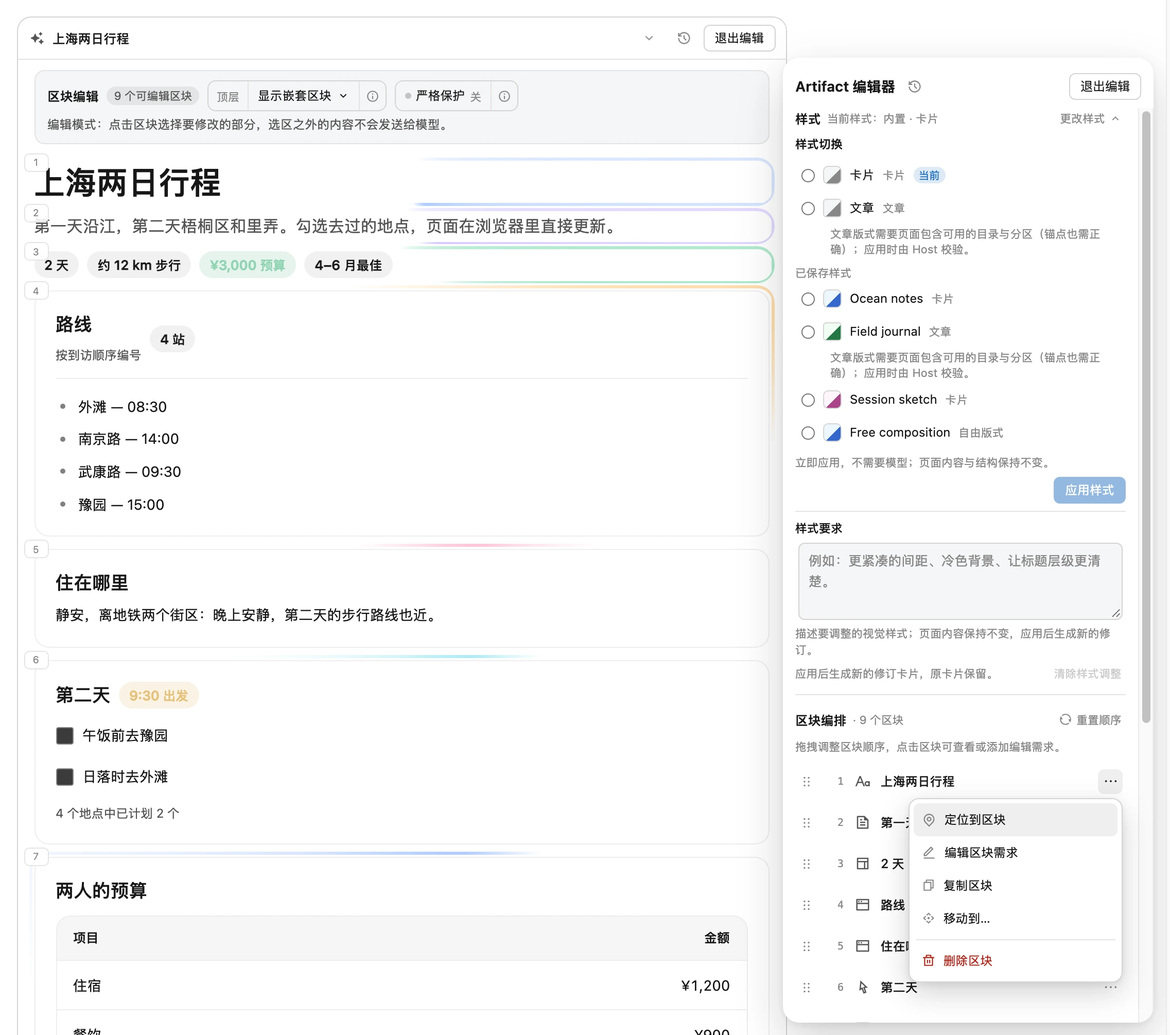
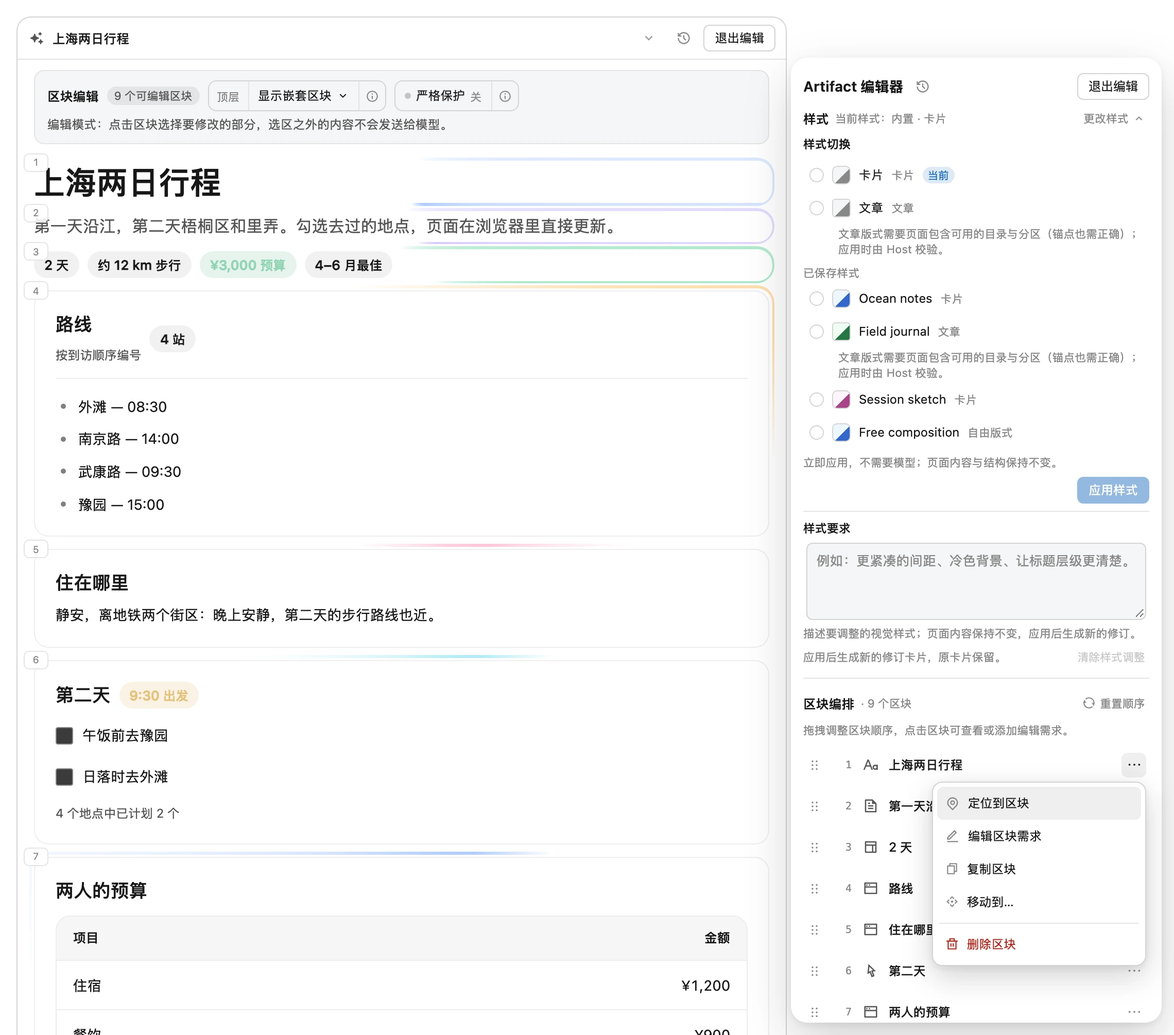
style(editor): custom-draw the style-switch radios
Replace the native OS radio appearance in the B2 style picker with a
custom-drawn 14px ring/dot indicator (native input preserved for keyboard and
assistive technology), including hover/checked/focus-visible states and a
forced-colors checked/focus fallback. Regenerate the editor/overview captures
and sync current facts (client CSS 220.9 kB, pack 6,047,986 / 12,890,199).

diff --git a/src/client/artifact-edit/artifact-edit.css b/src/client/artifact-edit/artifact-edit.css
@@ -992,8 +992,33 @@
 
 .dsh-iui-edit-style-radio {
   flex: none;
+  box-sizing: border-box;
+  inline-size: 14px;
+  block-size: 14px;
   margin: 0;
-  accent-color: var(--dsw-alias-state-business-primary, var(--dsw-alias-brand-primary));
+  border: 1.5px solid var(--dsw-alias-border-l2);
+  border-radius: 50%;
+  /* Custom-drawn radio: keep the native input for keyboard/AT semantics. */
+  appearance: none;
+  -webkit-appearance: none;
+  background: var(--dsw-alias-bg-base, #fff);
+  cursor: pointer;
+  transition: border-color 120ms ease, background-color 120ms ease;
+}
+
+.dsh-iui-edit-style-radio:hover {
+  border-color: var(--dsw-alias-label-tertiary);
+}
+
+.dsh-iui-edit-style-radio:checked {
+  border-color: var(--dsw-alias-state-business-primary, var(--dsw-alias-brand-primary));
+  background: var(--dsw-alias-state-business-primary, var(--dsw-alias-brand-primary));
+  box-shadow: inset 0 0 0 3px var(--dsw-alias-bg-base, #fff);
+}
+
+.dsh-iui-edit-style-radio:focus-visible {
+  outline: 2px solid var(--dsw-focus-ring-color, var(--dsw-alias-brand-primary));
+  outline-offset: 2px;
 }
 
 .dsh-iui-edit-style-swatch {
@@ -1096,6 +1121,16 @@
 @media (forced-colors: active) {
   .dsh-iui-edit-style-target.is-checked {
     outline: 1px solid Highlight;
+  }
+  .dsh-iui-edit-style-radio {
+    border-color: ButtonText;
+    background: Canvas;
+  }
+  .dsh-iui-edit-style-radio:checked {
+    border-color: Highlight;
+    background: Highlight;
+    outline: 2px solid Highlight;
+    outline-offset: -3px;
   }
   /* Native radio focus must stay visible when the painted ring is gone. */
   .dsh-iui-edit-style-target:has(.dsh-iui-edit-style-radio:focus-visible) {

diff --git a/CHANGELOG.md b/CHANGELOG.md
@@ -9,7 +9,7 @@ been published yet.
 
 ### Added
 
-- **Deterministic style switching in the Artifact editor (zero model).** The style section can now switch a rendered page to a built-in Card/Article layout or a visible saved template without a model turn: the client previews the template theme and Article shell locally, and Apply records a new revision with the same program and the resolved `style`/`styleId` (a result-owned temporary snapshot is dropped; built-in Free is rejected, Free only through a saved free template). The existing authenticated `POST /api/intelligent-ui/artifact-structure` gains a request-level `targetStyle` plus empty `operations` under a single-intent contract; the Host resolves durable targets (`style_missing` for invisible/deleted session templates), reuses the exact Toc/Section+anchor article predicate (moved into `src/host/program-validation.ts`), verifies the claimed base style identity for recorded base revisions (revision ≥ 2; revision 1 has no stored record, 409 `base_style_mismatch`, nothing written), applies the no-op/drop-snapshot rules, and records a `struct_` revision without `editedBlockIds` as the switch signature. No new durable revision fields or history enum values: old clients see a structure revision, new clients label it as a style switch, and an optional `styleSwitch` capability bit hides the picker on old Hosts. Revisions are local cards only (not in transcript replay/export) and template directives do not reflow content — both documented as limits. Verification: Node **617/617** (Host **299**, Client **297**, packaging **21**); browser 9/9, `artifact-edit` **497 checks**; `npm run pack:check` **65 files**, **6,042,172** bytes packed, **12,880,636** bytes unpacked.
+- **Deterministic style switching in the Artifact editor (zero model).** The style section can now switch a rendered page to a built-in Card/Article layout or a visible saved template without a model turn: the client previews the template theme and Article shell locally, and Apply records a new revision with the same program and the resolved `style`/`styleId` (a result-owned temporary snapshot is dropped; built-in Free is rejected, Free only through a saved free template). The existing authenticated `POST /api/intelligent-ui/artifact-structure` gains a request-level `targetStyle` plus empty `operations` under a single-intent contract; the Host resolves durable targets (`style_missing` for invisible/deleted session templates), reuses the exact Toc/Section+anchor article predicate (moved into `src/host/program-validation.ts`), verifies the claimed base style identity for recorded base revisions (revision ≥ 2; revision 1 has no stored record, 409 `base_style_mismatch`, nothing written), applies the no-op/drop-snapshot rules, and records a `struct_` revision without `editedBlockIds` as the switch signature. No new durable revision fields or history enum values: old clients see a structure revision, new clients label it as a style switch, and an optional `styleSwitch` capability bit hides the picker on old Hosts. Revisions are local cards only (not in transcript replay/export) and template directives do not reflow content — both documented as limits. Verification: Node **617/617** (Host **299**, Client **297**, packaging **21**); browser 9/9, `artifact-edit` **497 checks**; `npm run pack:check` **65 files**, **6,047,986** bytes packed, **12,890,199** bytes unpacked.
 - **Natural-language style editing inside the Artifact editor (B1).** The edit canvas gains a style section: a bounded instruction (max 2000 chars) asks the model to restyle the rendered page while keeping its recorded layout (card/article/free never cross). The edit request is now a discriminated `block`/`style` union; the block envelope header and program body stay compatible (the prose is now generated from the shared contract helper, so the whole serialized text is not byte-identical), and the style variant carries no block/arrangement/global fields. A style request is applied with `render_ui` exactly once (`editRequestId` + complete program + recorded style + complete `temporaryStyle`, no `styleId`); the Host accepts the model-approved snapshot only because the pending style request authorizes it, never auto-applies a style request without an explicit selector, rejects a style apply while an on-demand operation is bound (no double result-snapshot write), shares one snapshot validator with on-demand, records the revision with the model snapshot (no `styleId`/`editedBlockIds`), treats an unchanged program+snapshot as a no-op, and adds a preservation warning for a wholesale redesign. The editor hides the legacy footer Adjust style action when the Host advertises the capability and the card is editable (old Hosts or non-editable cards keep the fallback); Save as template stays. Root-cause fix: a revision carrying a `temporaryStyle` now registers its ResultStore snapshot under the revision id before the revision write, so Save as template (and the legacy footer action) work on edited/restored/structure temporary revisions; history infers these without new durable fields, and an optional `styleEdit` projection bit drives the capability without changing revision/history schemas. Verification: see the B1 entry of `docs/verification.md`.
 - **Artifact base registration lifecycle.** Cards rendered before the authoritative program registry existed had no Host state, so structure operations, revision history and restore failed differently (404 `artifact_missing`/`base_missing`, empty history, `source_missing`). A new authenticated `POST /api/intelligent-ui/artifact-base` closes the gap with one write-once registration transition that covers both legacy shapes — the initial anchor (`revisionId === artifactId`; revision 1 is program-only and revision records start at 2) and a recorded anchor (`revisionId` belongs to the artifact, e.g. after the program was LRU-evicted) — validates the program structurally, never overwrites a registered program (the same program is an idempotent no-op with `registered:false`, a different one is 409 `program_conflict`), writes no revision record, caps the body at 1 MiB (a 200k multi-byte program can exceed 300 KiB) and never echoes the program. The structure route now shares one `resolveArtifactBase` boundary (`artifact_missing` vs `base_missing` and their text unchanged), and the restore route keeps its existing program-only fallback unchanged. Accepted deviations are documented instead of hidden: a registered initial revision's `createdAt` becomes the registration time, untouched old cards stay unregistered (no backfill), and evicted non-current programs stay unrecoverable client-side. Verification: see the base-registration entry of `docs/verification.md`; the B2 gate is recorded in the B2 entry. Review follow-ups: a failed authoritative request invalidates the client registration cache so close/reopen genuinely retries (guarded against stale in-flight answers), the program store writes to disk before committing memory so a 500 leaves no phantom registration, an over-limit padded program is rejected as 400 `invalid_program`, and the restore route keeps its pre-existing program-only fallback (no semantics change).
 - **Old cards register automatically on first authoritative use.** The client's single `ensureArtifactBase` entry (single-flight plus a permanent per-artifact/revision cache) fires when the edit canvas opens (new, retained and submitted-reused drafts), before the structure preview and apply POSTs, before loading the revision-history dialog and before restore sends. It posts the rendered program once and caches `present`/`registered`; a 404 from an old Host caches an unsupported capability for that revision (degrade, never probe it again); network/other failures stay retryable and never surface to the user. Old-Host mixed deployments therefore degrade to instruction editing or a re-render instead of blocking. Verification: `test/host/artifact-base.test.mjs` (12 tests), `test/client/artifact-base.test.mjs` (5 tests), 3 new store tests in `test/client/artifact-edit.test.mjs`, and browser scenario 36 (one registration per legacy card, registration before structure requests, old-Host 404 degrade, new preview/props copy).
@@ -83,7 +83,8 @@ been published yet.
 
 ### Fixed
 
-- **Model tool-call contracts are now single-sourced and Host-coupled, and the third/fourth review rounds' edge paths are fixed.** `styleEditToolContract`/`buildStyleEditToolArgs` and `blockEditToolContract`/`buildBlockEditToolArgs` define the required/optional/forbidden render_ui and edit_ui_blocks arguments; the serializers emit a generated `Tool-call contract:` line, and Host coupling tests execute the helper-produced args (style builtin/saved/temporary; block fragments/order-only, including requestId/styleId selectors) so the envelope cannot drift from the Host. Block prose now escapes `<` in instructions/additions/global prose, and the parser only accepts a header on the next line and skips program-body markers (including a literal `<artifact-program>`). An order-only/global-only edit now reports the recorded title/styleId (including `presentationMeta`), temporary-style additions-only sends are allowed, pending block edits render the artifact's recorded style instead of the session template (no order-only template deadlock), recorded result-owned snapshots are authoritative for content edits, unsaved block drafts block a style switch, and the Article hint/dirty copy is accurate. The fourth-pass review fixes are included too: the route capability is updated from the deferred inject callback with a boolean-safe schema, block titles are escaped in prose, the sent-message summary uses the own-line program fence, and the E2E applies a reachable saved card template. Verification: Node **617/617** (Host **299**, Client **297**, packaging **21**); browser 9/9, `artifact-edit` **497 checks**; pack 65 files, **6,042,172** packed / **12,880,636** unpacked.
+- **The style-switch target controls are custom-drawn radios.** The B2 picker now draws its own 14px ring/dot selected state instead of the native OS radio, while keeping the native input for keyboard and assistive technology; forced-colors keeps a visible checked/focus state. The editor screenshots were regenerated.
+- **Model tool-call contracts are now single-sourced and Host-coupled, and the third/fourth review rounds' edge paths are fixed.** `styleEditToolContract`/`buildStyleEditToolArgs` and `blockEditToolContract`/`buildBlockEditToolArgs` define the required/optional/forbidden render_ui and edit_ui_blocks arguments; the serializers emit a generated `Tool-call contract:` line, and Host coupling tests execute the helper-produced args (style builtin/saved/temporary; block fragments/order-only, including requestId/styleId selectors) so the envelope cannot drift from the Host. Block prose now escapes `<` in instructions/additions/global prose, and the parser only accepts a header on the next line and skips program-body markers (including a literal `<artifact-program>`). An order-only/global-only edit now reports the recorded title/styleId (including `presentationMeta`), temporary-style additions-only sends are allowed, pending block edits render the artifact's recorded style instead of the session template (no order-only template deadlock), recorded result-owned snapshots are authoritative for content edits, unsaved block drafts block a style switch, and the Article hint/dirty copy is accurate. The fourth-pass review fixes are included too: the route capability is updated from the deferred inject callback with a boolean-safe schema, block titles are escaped in prose, the sent-message summary uses the own-line program fence, and the E2E applies a reachable saved card template. Verification: Node **617/617** (Host **299**, Client **297**, packaging **21**); browser 9/9, `artifact-edit` **497 checks**; pack 65 files, **6,047,986** packed / **12,890,199** unpacked.
 
 - **Switching the Intelligent UI scope no longer forces the Display style panel open.** Choosing Off / This session only / Follow global now only sends the scope command; the style panel opens from exactly two explicit entries — the menu's **Display style** row, or clicking the already-active scope entry when it resolves to enabled (an off scope, or follow-global while the global switch is off, simply closes the menu). The style-panel E2E asserts no auto-open after a scope switch and covers both explicit routes.
 

diff --git a/docs/verification.md b/docs/verification.md
@@ -475,7 +475,7 @@ Composer「显示样式」面板接入与设置页相同的模板交换入口：
 | --- | --- |
 | `npm run check` | PASS；Node **617/617** = Host **299** + Client **297** + packaging **21**；renderer/契约全绿；build host **836.7 kB**、client **4.03 MB**（js 3.81 / css 220.0）、standalone 3.33 + 514.4 |
 | `npm run test:browser` | PASS；9/9 套件；`artifact-edit` **497 checks**、`nested-edit-renderer` 75、on-demand 114、settings 101 |
-| `npm run pack:check` | PASS；**65** 个文件，压缩 **6,042,172** 字节，解包 **12,880,636** 字节 |
+| `npm run pack:check` | PASS；**65** 个文件，压缩 **6,047,986** 字节，解包 **12,890,199** 字节 |
 | 结构 | 双语标题 parity、本地链接/锚点、截图引用、`git diff --check` 全 OK |
 
 ## 2026-11-08 — 第四轮复审修复（路由能力位异步、标题转义、summary fence；未提交工作树）
@@ -496,7 +496,7 @@ Composer「显示样式」面板接入与设置页相同的模板交换入口：
 | --- | --- |
 | `npm run check` | PASS；Node **617/617** = Host **299** + Client **297** + packaging **21**；build host **836.7 kB**、client **4.03 MB**（js 3.81 / css 220.0）、standalone 3.33 + 514.4 |
 | `npm run test:browser` | PASS；9/9 套件；`artifact-edit` **497 checks**、`nested-edit-renderer` 75、on-demand 114、settings 101 |
-| `npm run pack:check` | PASS；**65** 个文件，压缩 **6,042,172** 字节，解包 **12,880,636** 字节 |
+| `npm run pack:check` | PASS；**65** 个文件，压缩 **6,047,986** 字节，解包 **12,890,199** 字节 |
 | 结构 | 双语标题 parity、本地链接/锚点、截图引用、`git diff --check` 全 OK |
 
 ## 2026-11-08 — 稳定化守卫（统一 envelope 扫描、截图 token 契约、延迟注入、文档事实源；未提交工作树）
@@ -514,12 +514,12 @@ Composer「显示样式」面板接入与设置页相同的模板交换入口：
 | --- | --- |
 | `npm run check` | PASS；Node **617/617** = Host **299** + Client **297** + packaging **21**；build host **836.7 kB**、client **4.03 MB**（js 3.81 / css 220.0）；含 capture-token 契约与 doc-facts 检查 |
 | `npm run test:browser` | PASS；9/9 套件；`artifact-edit` **497 checks**、`nested-edit-renderer` 75 |
-| `npm run pack:check` | PASS；**65** 个文件，压缩 **6,042,172** 字节，解包 **12,880,636** 字节 |
+| `npm run pack:check` | PASS；**65** 个文件，压缩 **6,047,986** 字节，解包 **12,890,199** 字节 |
 | 结构 | 双语标题 parity、本地链接/锚点、截图引用、`git diff --check` 全 OK |
 
 ## 2026-11-08 — B2 真机验收（重启后，真实 GUI）
 
-- 同树门禁（本记录引用）：Node **617/617** = Host **299** + Client **297** + packaging **21**；`artifact-edit` **497 checks**；build host **836.7 kB**、CSS **220.0** kB；pack **6,042,172** / **12,880,636** 字节。
+- 同树门禁（本记录引用）：Node **617/617** = Host **299** + Client **297** + packaging **21**；`artifact-edit` **497 checks**；build host **836.7 kB**、CSS **220.9** kB；pack **6,047,986** / **12,890,199** 字节。
 
 - dsh-web 重启后 pid **15525**（launchd loaded、3080 归该 pid、未认证根页面 401、启动日志无异常）；用新 URL 打开真实 GUI。
 - 上海两日游会话（已有 B1 产生的 Revision 2）：打开卡片编辑 → 展开样式区，**B2 样式切换组出现**（内置 Card/Article；该页为临时样式 base，无 current 行并显示 temporary 说明）；选择内置 Card 后 **Apply style** 可点；点击应用后编辑器关闭、无 alert，聊天中出现本地修订卡 **“Style revision” / Revision 3**，页面内容与布局保持不变。

diff --git a/docs/verification.en.md b/docs/verification.en.md
@@ -495,7 +495,7 @@ Record of the fixes after the third independent read-only review (code/security 
 | --- | --- |
 | `npm run check` | PASS; **617/617** Node tests = Host **299** + Client **297** + packaging **21**; renderer/contracts green; build host **836.7 kB**, client **4.03 MB** (js 3.81 / CSS 220.0), standalone 3.33 + 514.4 |
 | `npm run test:browser` | PASS; 9/9 suites; `artifact-edit` **497 checks**, `nested-edit-renderer` 75, on-demand 114, settings 101 |
-| `npm run pack:check` | PASS; **65** files, **6,042,172** bytes packed, **12,880,636** bytes unpacked |
+| `npm run pack:check` | PASS; **65** files, **6,047,986** bytes packed, **12,890,199** bytes unpacked |
 | Structure | bilingual heading parity, local links/anchors, screenshot references, `git diff --check` all OK |
 
 ## 2026-11-08 — Fourth-review fixes (deferred route capability, title escaping, summary fence; uncommitted working tree)
@@ -516,7 +516,7 @@ The fourth review found that the route-derived `styleSwitch` returned false sync
 | --- | --- |
 | `npm run check` | PASS; **617/617** Node tests = Host **299** + Client **297** + packaging **21**; build host **836.7 kB**, client **4.03 MB** (js 3.81 / CSS 220.0), standalone 3.33 + 514.4 |
 | `npm run test:browser` | PASS; 9/9 suites; `artifact-edit` **497 checks**, `nested-edit-renderer` 75, on-demand 114, settings 101 |
-| `npm run pack:check` | PASS; **65** files, **6,042,172** bytes packed, **12,880,636** bytes unpacked |
+| `npm run pack:check` | PASS; **65** files, **6,047,986** bytes packed, **12,890,199** bytes unpacked |
 | Structure | bilingual heading parity, local links/anchors, screenshot references, `git diff --check` all OK |
 
 ## 2026-11-08 — Stabilization guards (unified envelope scanner, capture-token contract, deferred inject, docs facts; uncommitted working tree)
@@ -534,12 +534,12 @@ Four structural guards added after the review loop:
 | --- | --- |
 | `npm run check` | PASS; **617/617** Node tests = Host **299** + Client **297** + packaging **21**; build host **836.7 kB**, client **4.03 MB** (js 3.81 / CSS 220.0); includes capture-token and doc-facts checks |
 | `npm run test:browser` | PASS; 9/9 suites; `artifact-edit` **497 checks**, `nested-edit-renderer` 75 |
-| `npm run pack:check` | PASS; **65** files, **6,042,172** bytes packed, **12,880,636** bytes unpacked |
+| `npm run pack:check` | PASS; **65** files, **6,047,986** bytes packed, **12,890,199** bytes unpacked |
 | Structure | bilingual heading parity, local links/anchors, screenshot references, `git diff --check` all OK |
 
 ## 2026-11-08 — B2 real-GUI acceptance after restart
 
-- Source gate for this tree: Node **617/617** = Host **299** + Client **297** + packaging **21**; `artifact-edit` **497 checks**; build host **836.7 kB**, CSS **220.0** kB; pack **6,042,172** / **12,880,636** bytes.
+- Source gate for this tree: Node **617/617** = Host **299** + Client **297** + packaging **21**; `artifact-edit` **497 checks**; build host **836.7 kB**, CSS **220.9** kB; pack **6,047,986** / **12,890,199** bytes.
 
 - dsh-web restarted to pid **15525** (launchd loaded, port 3080 owned by it, unauthenticated root 401, clean startup log); the real GUI was opened with the new URL.
 - In the 上海两日游 session (already carrying the B1 Revision 2): opened the card editor → expanded the style section; the **B2 switch group appeared** (built-in Card/Article; the page is a temporary-style base, so no current row and the temporary note was shown); selecting built-in Card enabled **Apply style**; applying closed the editor with no alert and added a local revision card labelled **"Style revision" / Revision 3**, with unchanged content/layout.

diff --git a/docs/architecture.en.md b/docs/architecture.en.md
@@ -270,7 +270,7 @@ A rendered page can be revised in place inside its card: an **Edit** entry in th
 - **Panel ↔ canvas mapping, focus mode and pending markers (follow-up)**: arrangement/nested/request rows and canvas blocks hover-sync both ways (neutral 2px blue frame + 4% wash while not selected/edited); root blocks always show their page-order index (nested blocks only on hover); a pending row keeps its page index and adds a request-number badge after the title with a tooltip; each row gains a **More** menu (locate/edit/duplicate/move/delete); locating reuses the 900ms flash and row-body click still locates. Opening any block editor dims the other blocks with a scrim while the edited block keeps its frame; Save/Cancel clears it. Save no longer leaves the big selected frame: the block becomes a quiet pending marker (dot + request number) and its root orbit glow runs slower/dimmer (5.2s, 0.3); the `selection` data is unchanged and still ships on send. Deterministic Apply/structure operations keep the existing record-then-exit behaviour (1A).
 - **State consistency**: the unsent-content guard uses `hasArtifactEditContent` (including nested ordering); async structure/property failures patch the current session only (no resurrecting closed/submitted editors); nested kinds reuse the shared mapping; the quick panel focuses its first control, exposes `aria-busy`, `edit.propsUnit` and stale-base/no-change/busy copy.
 - **Limits and budget**: only the Divider/Spacer properties above are adjustable; property revisions are local-storage cards like the other local revisions and do not participate in export; custom CSS colours are constrained by the renderer's `isSafeCss` and a conservative Host format check; the old `.dsh-iui-block` wrapper boxes no longer exist, so tests use the overlay hit/frame selectors. The CST node budget is 200 (was 60): long article pages such as the 105-node Solid 2.0 guide now expose nested Spacers and quick adjust, and a 66-node fixture regresses this in the browser suite.
-- **Verification**: **617/617** Node tests; 9/9 browser suites; `artifact-edit` **497 checks** (layout parity, nested preview, quick panel, custom dropdowns/slider, slider live preview, pinned popover/stable on unit switch, large-page nesting, deterministic request body, property revision card, dirty refusal, dynamic fallback, apply disabled/focus); `nested-edit-renderer` 75; client CSS 220.0 kB; standalone 3.33 MB + 514.4 kB; pack 65 files 6.04 MB / 12.88 MB; harness screenshots `.tmp-report/harness-quick-props.png` and `.tmp-report/harness-pending-block.png`.
+- **Verification**: **617/617** Node tests; 9/9 browser suites; `artifact-edit` **497 checks** (layout parity, nested preview, quick panel, custom dropdowns/slider, slider live preview, pinned popover/stable on unit switch, large-page nesting, deterministic request body, property revision card, dirty refusal, dynamic fallback, apply disabled/focus); `nested-edit-renderer` 75; client CSS 220.9 kB; standalone 3.33 MB + 514.4 kB; pack 65 files 6.04 MB / 12.88 MB; harness screenshots `.tmp-report/harness-quick-props.png` and `.tmp-report/harness-pending-block.png`.
 
 ### Artifact authoritative-state lifecycle and base registration (2026-11-07)
 

diff --git a/docs/architecture.md b/docs/architecture.md
@@ -272,7 +272,7 @@ projection v6 在 enable/style/pending 之外携带可空 `onDemand`（operation
 - **列表↔画布映射、编辑聚焦与 pending 标记（追加）**：编排/嵌套/请求行 hover 与画布区块双向联动（中性蓝 2px 细框 + 4% 淡底，未选中/未编辑时显示）；根层常显页面顺序索引（嵌套块仅在 hover 时显示）；有 pending 请求的行仍保留页面序号，并在标题后显示带 tooltip 的请求序号 badge；行尾新增「更多」菜单（定位/编辑/复制/移动/删除；定位仍复用 900ms 脉冲），保留点击行主体定位。打开任一区块编辑器时，其余区块被 scrim 压暗，当前区块保留编辑框；Save/Cancel 关闭后 scrim 消失。Save 不再保留大选中框：改为「圆点 + 请求序号」的低调 pending 标记，pending 根层区块的 orbit glow 降速（5.2s）变淡（0.3）；`selection` 数据不变，发送时照常提交。确定性 Apply/结构操作仍按既定行为记录修订并退出编辑（1A 不变）。
 - **状态一致性**：未发送拦截统一用 `hasArtifactEditContent`（包含嵌套排序）；异步结构/属性请求失败只回写当前 session（不会复活已关闭/已提交的编辑器）；嵌套 kind 复用共享映射；快捷面板打开即聚焦、`aria-busy`、`edit.propsUnit`、stale-base/no-change/busy 文案齐全。
 - **限制与预算**：快捷调整只支持 Divider/Spacer 的上述属性；属性修订卡与其他本地修订一样只在 localStorage/触发 Turn 渲染，不参与导出；自定义 CSS 颜色由渲染器 `isSafeCss` 约束，Host 只做保守格式校验；根层 wrapper 已无盒子，依赖 `.dsh-iui-block` 盒子的旧样式/hook 不再存在（测试改为 overlay hit/frame 选择器）。CST 节点预算为 200（此前 60）：长文章页面（如 105 节点的 Solid 2.0 导览）现在可以找到嵌套 Spacer 并使用快捷调整；66 节点 fixture 在浏览器套件中回归。
-- **验证**：Node **617/617**；浏览器 9/9；`artifact-edit` **497 checks**（布局 parity、嵌套 preview、快捷面板、自绘下拉/滑块、滑块即时预览、popover 固定/单位切换不位移、大页面嵌套、确定性请求体、属性修订卡、dirty 拦截、动态回退、apply 禁用/焦点），`nested-edit-renderer` 75；CSS 客户端 220.0 kB；standalone 3.33 MB + 514.4 kB；pack 65 files 6.04 MB / 12.88 MB；harness 截图 `.tmp-report/harness-quick-props.png`、`.tmp-report/harness-pending-block.png`。
+- **验证**：Node **617/617**；浏览器 9/9；`artifact-edit` **497 checks**（布局 parity、嵌套 preview、快捷面板、自绘下拉/滑块、滑块即时预览、popover 固定/单位切换不位移、大页面嵌套、确定性请求体、属性修订卡、dirty 拦截、动态回退、apply 禁用/焦点），`nested-edit-renderer` 75；CSS 客户端 220.9 kB；standalone 3.33 MB + 514.4 kB；pack 65 files 6.04 MB / 12.88 MB；harness 截图 `.tmp-report/harness-quick-props.png`、`.tmp-report/harness-pending-block.png`。
 
 ### Artifact 权威状态生命周期与基础登记（2026-11-07）
 

diff --git a/.agents/skills/sync-iui-docs/references/verification.md b/.agents/skills/sync-iui-docs/references/verification.md
@@ -6,7 +6,7 @@ Run from the repo root. Current expected values are dated 2026-11-08; derive the
 
 | Command | Expected (2026-11-08) | What it proves |
 | --- | --- | --- |
-| `npm run check` | typecheck `tsc --noEmit` (pass; `src/client` excluded because its DSH platform types are not local dependencies); build: `host lib/index.js 836.8 kB`, `client lib/client.js 4.03 MB (js 3.81 MB, css 220.0 kB)`, `lib/standalone.js 3.33 MB + lib/standalone.css 514.4 kB`; tests: 615 total = Host 299 + Client 297 + packaging 21; `check: 42/42` gallery parsed; `render-check: 42/42` plus free composition in light/dark; `contrast-check: colour contract OK`; `i18n-check: localized chrome OK (4 programs)`; `typography-check: 22/22`; `media-row-check: 17/17`; `pressable-select-check: 9/9`; `css-contract-check: 50/50`; `prop-contract-check: 63/63`; `nested-css-contract: 28/28 direct + 5/5 scoped` | Build artifacts, behavior, docs/consistency guards, renderer, i18n, typography and contract claims |
+| `npm run check` | typecheck `tsc --noEmit` (pass; `src/client` excluded because its DSH platform types are not local dependencies); build: `host lib/index.js 836.8 kB`, `client lib/client.js 4.03 MB (js 3.81 MB, css 220.9 kB)`, `lib/standalone.js 3.33 MB + lib/standalone.css 514.4 kB`; tests: 615 total = Host 299 + Client 297 + packaging 21; `check: 42/42` gallery parsed; `render-check: 42/42` plus free composition in light/dark; `contrast-check: colour contract OK`; `i18n-check: localized chrome OK (4 programs)`; `typography-check: 22/22`; `media-row-check: 17/17`; `pressable-select-check: 9/9`; `css-contract-check: 50/50`; `prop-contract-check: 63/63`; `nested-css-contract: 28/28 direct + 5/5 scoped` | Build artifacts, behavior, docs/consistency guards, renderer, i18n, typography and contract claims |
 | `npm run pack:check` | 65 files; tarball ≈ 6.04 MB, unpacked ≈ 12.88 MB (sizes vary with the working tree — derive from the current command output); includes `README.md`, `README.en.md`, `assets/`, `skills/`, `locale/`, `licenses/` (docs and `CHANGELOG.md` excluded) | Packaging claims, shipped-file lists, screenshot assets |
 | `node --test test/packaging/*.test.mjs` | 21 pass (manifest 9 + reference catalog 6 + guardrails 6) | Package, README pair and changelog, screenshots, locale meta, catalog counts, prompt/Skill guardrails, decision policy, the `render_ui` contract rows and the shipped file count |
 | `node --test test/packaging/guardrails.test.mjs` | 6 pass | The prompt and Agent Skill keep the extension checkout read-only while answering, and the enabled-session decision policy stays single-sourced |
